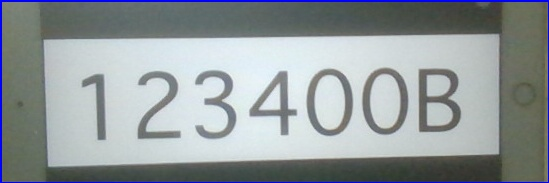
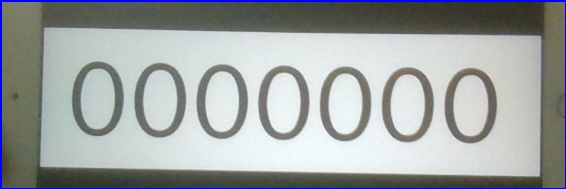
edit

diff --git a/app.py b/app.py
@@ -5,10 +5,12 @@ from re import A
 import cv2
 import numpy as np
 
+# ?---Set frame
 frameWidth = 640  # Frame Width
 franeHeight = 480   # Frame Height
-
 #-------------------------------------------------------------------------------------#
+
+# ?--Define center point of detected
 
 
 def center_point(x, y, w, h):
@@ -69,10 +71,11 @@ def countfunc(count):
     return counter
 
 
-# main function start
+#** -----------------------------------main function start-----------------------------------------**#
 start_Model_1 = False
 start_Model_2 = False
-#-----------------------------------------------------------------------------------------------------#
+#** -----------------------------------------------------------------------------------------------**#
+
 while(1):
     while(1):
         success, img = cap.read()
@@ -118,7 +121,7 @@ while(1):
             print(Model)
             Model_number = (Model)
 
-            #-----------------------------main confirm function start-----------------------------------#
+            # **-----------------------------main confirm function start-----------------------------------#
             if ("234500" in Model_number) == True:
                 def start_Model():
                     global start_Model_1
@@ -132,6 +135,13 @@ while(1):
                     start_Model_2 = True
                     return start_Model_2
                 start_Model1()
+                break
+            elif ("0000000" in Model_number) == True:
+                def Reset():
+                    global data2
+                    data2 = 0
+                    return data2
+                Reset()
                 break
         # **------------------------------end of confirm function start-------------------------------------------#
         # **Start Model 1
